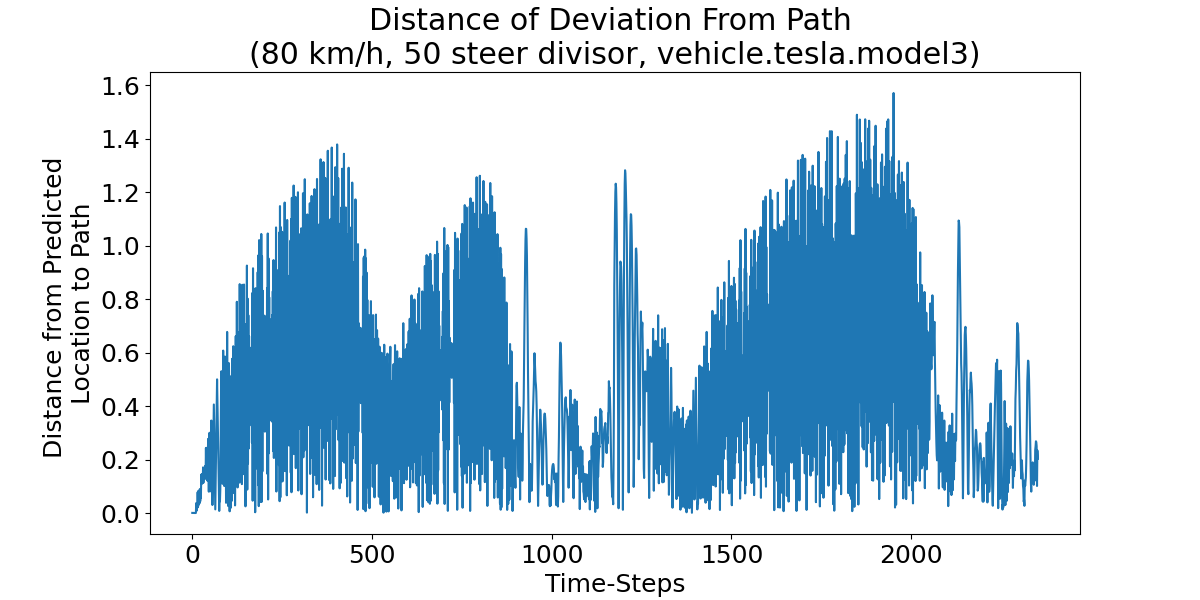
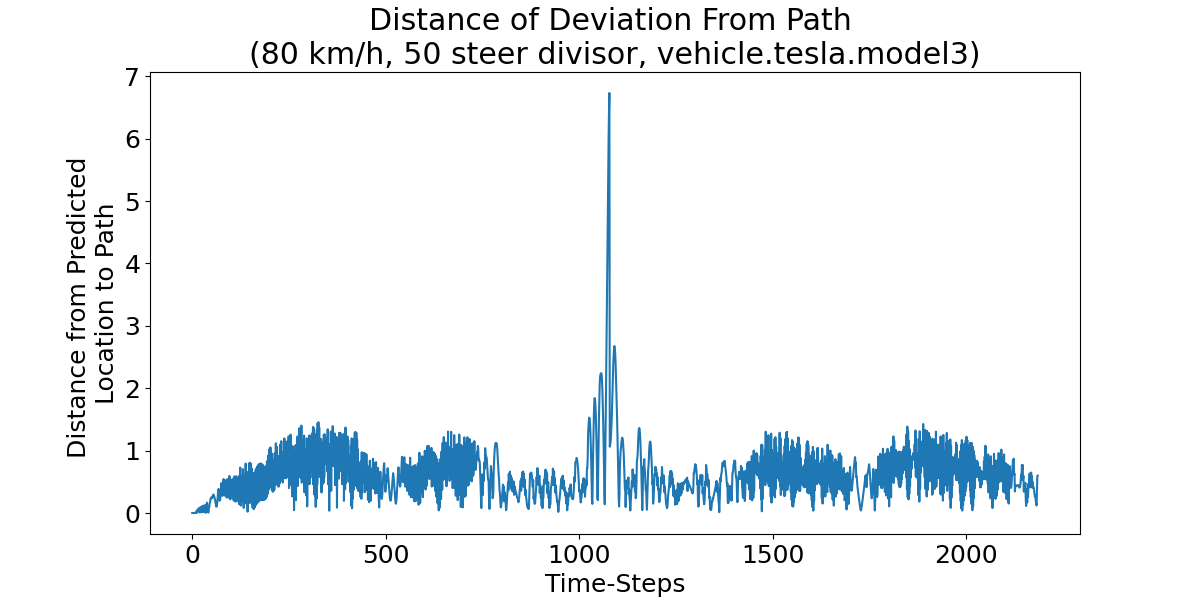
speed graphs fast drive

diff --git a/run/2024_03_21_25rl.py b/run/2024_03_21_25rl.py
@@ -372,8 +372,8 @@ def main():
             # # output = f'x, y: {x:.1f}, {y:.1f}'
             listDeltaTheta.append(deltaTheta)
             listLocations.append(vehicle.get_location())
-            thresholdDeltaThetaNoSteer = 0.5e-10
-            # thresholdDeltaThetaNoSteer = 5
+            # thresholdDeltaThetaNoSteer = 0.5e-10
+            thresholdDeltaThetaNoSteer = 5
             thresholdDeltaThetaSteer = 1e-1
             speedMinimum = 20
             speedTarget = TARGET_SPEED
